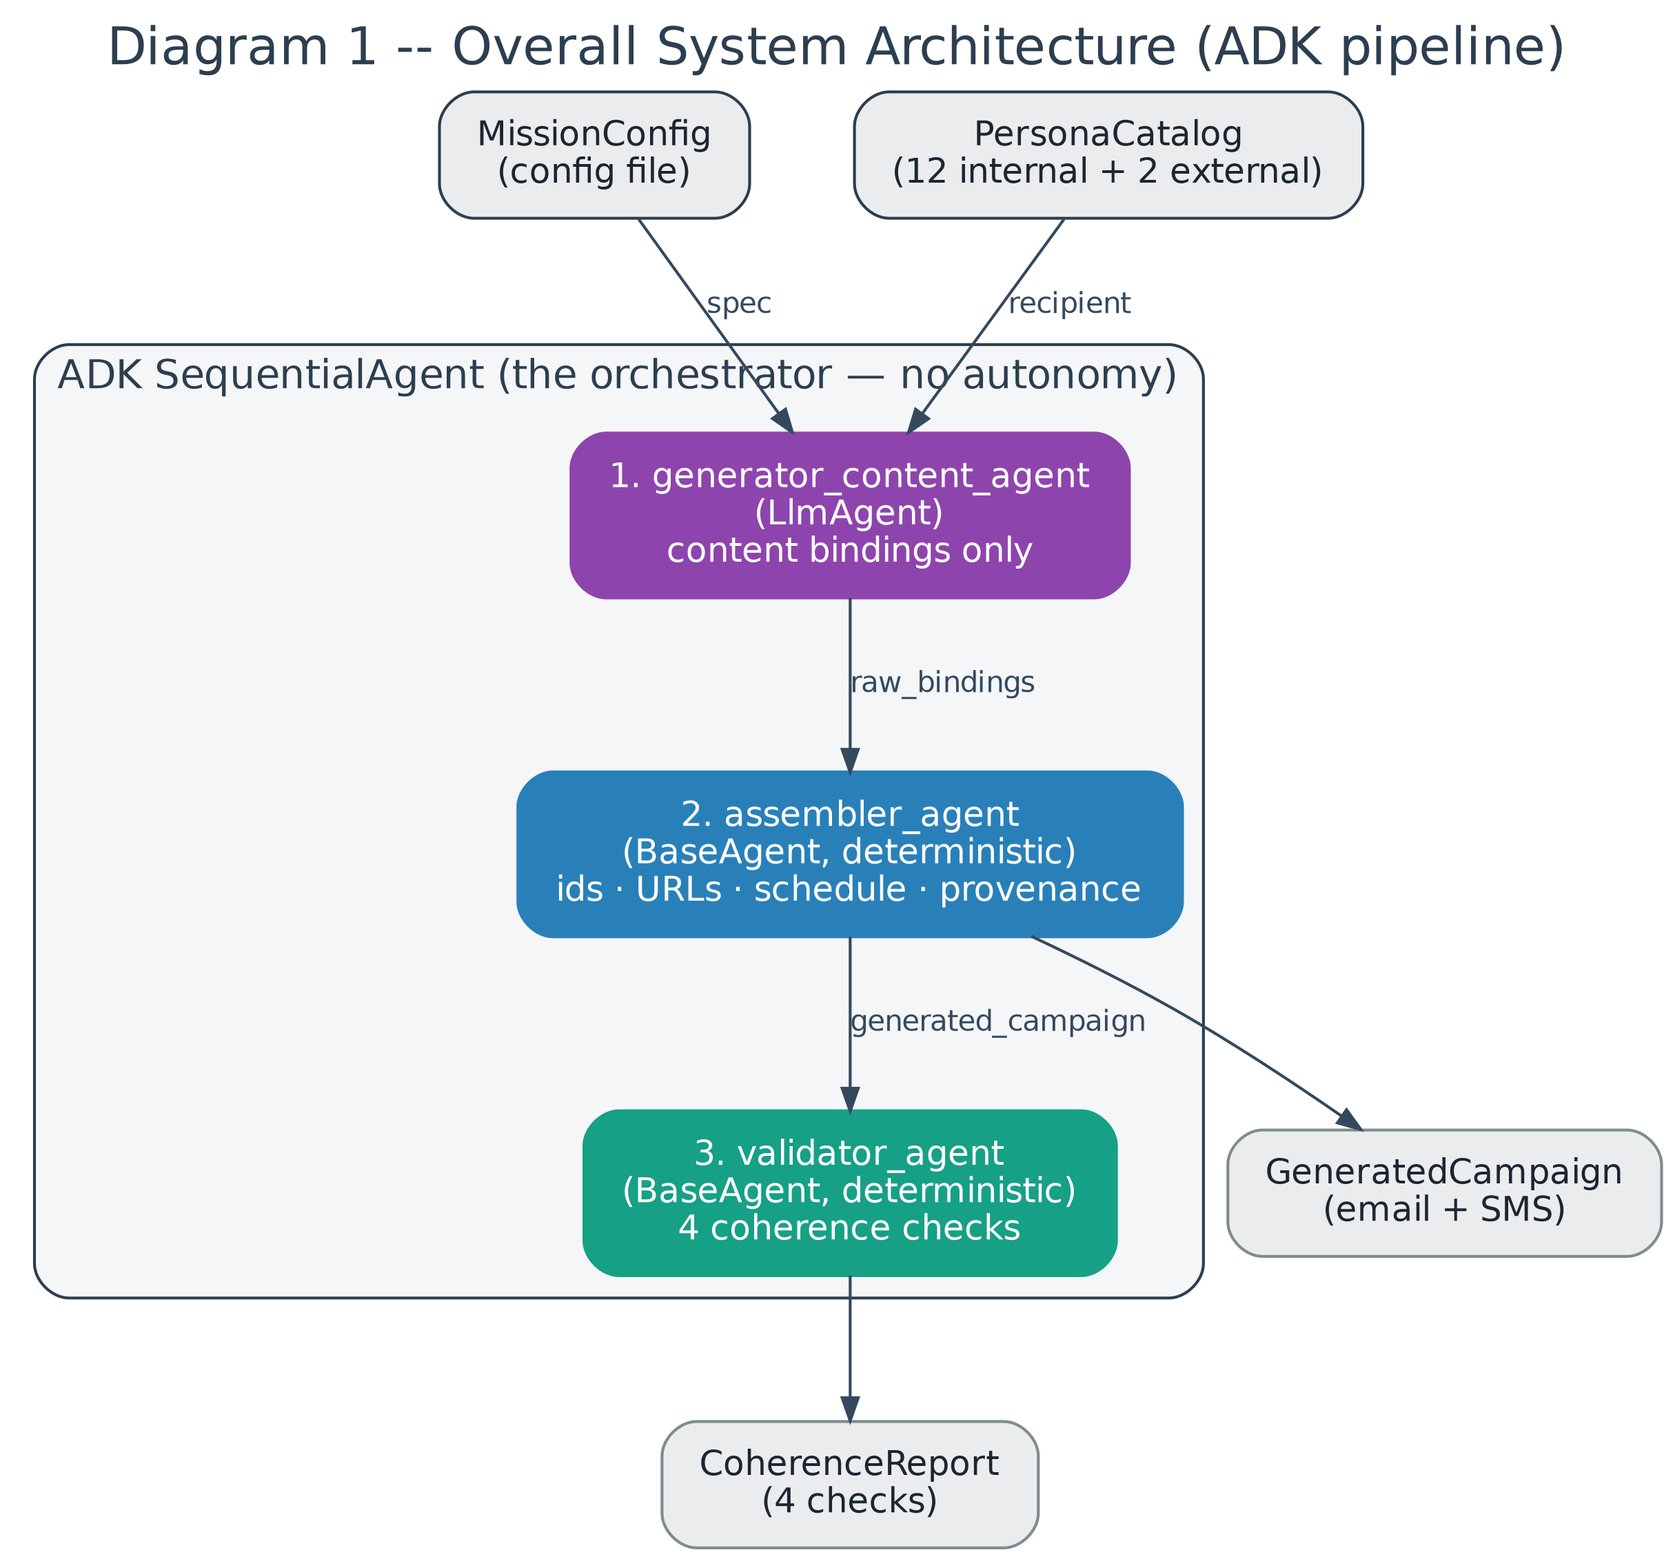
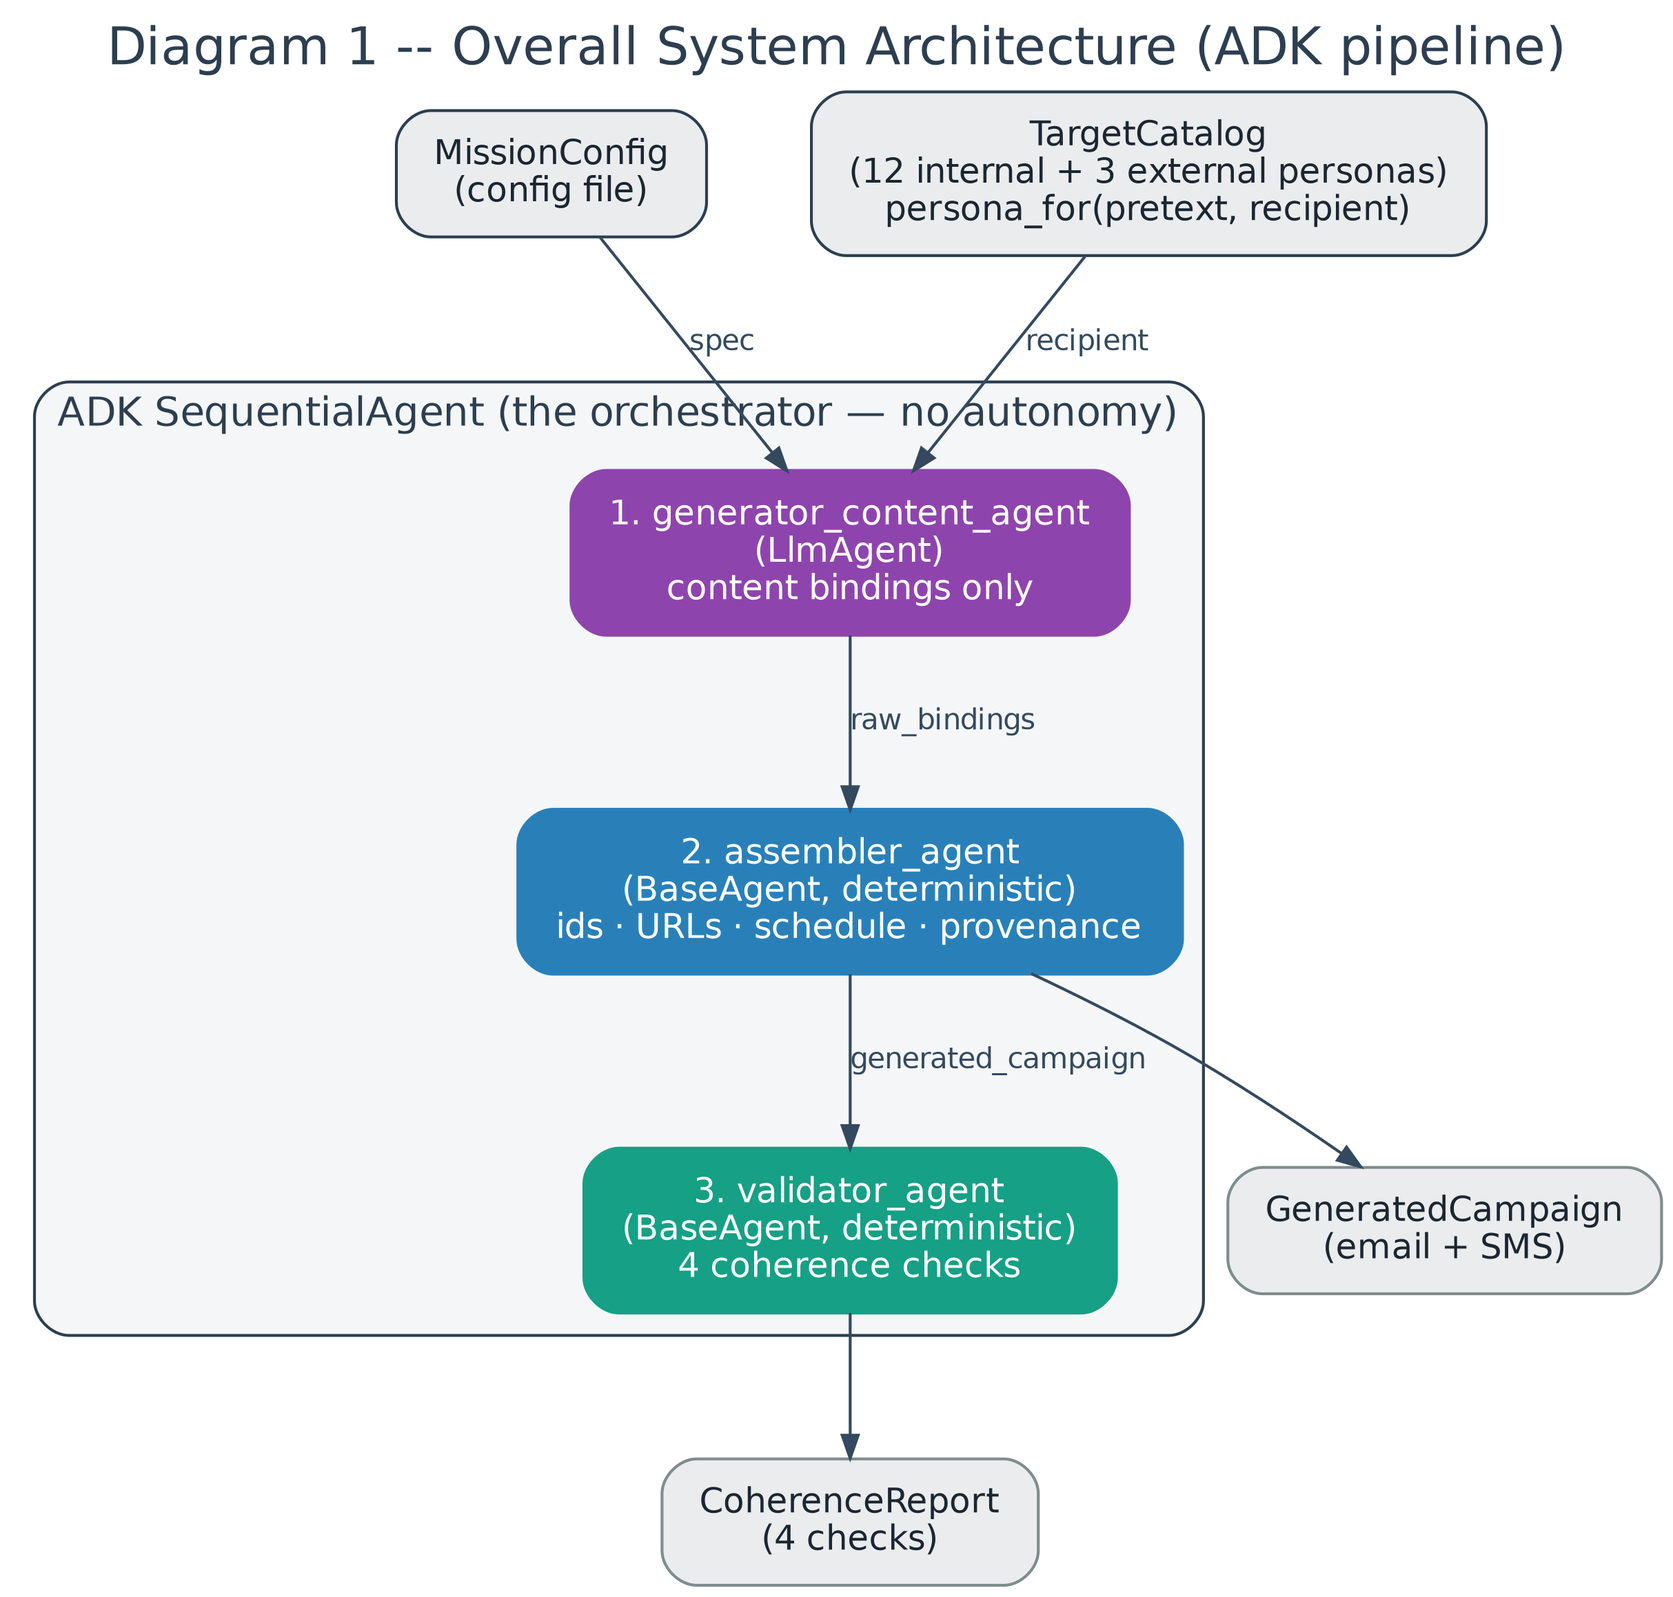
docs: sync persona-selection design across README, docs, and diagrams
Document the deterministic persona derivation, update the catalog counts
(12 internal + 3 external), and refresh the pipeline diagram.

diff --git a/scripts/generate_diagrams.py b/scripts/generate_diagrams.py
@@ -93,7 +93,7 @@ def diagram_1_system_architecture() -> str:
     dot.node("mission", "MissionConfig\n(config file)", shape="box",
              fillcolor="#EAECEE", color=PALETTE["orchestration"],
              fontcolor="#1B2631")
-    dot.node("catalog", "PersonaCatalog\n(12 internal + 2 external)", shape="box",
+    dot.node("catalog", "TargetCatalog\n(12 internal + 3 external personas)\npersona_for(pretext, recipient)", shape="box",
              fillcolor="#EAECEE", color=PALETTE["orchestration"],
              fontcolor="#1B2631")
 

diff --git a/README.md b/README.md
@@ -25,8 +25,9 @@
 - **Two channels** — email and SMS (voice is out of scope).
 - **Multi-model adapters** — generate through at least two model families so results are comparable and reproducible across families.
 - **Coherence validators** — a consistent impersonated persona, a coherent send timeline, existing cross-channel references, and link consistency (body links must match the CTA), all enforced in the schema and reported by a deterministic validator.
+- **Deterministic persona selection** — the impersonated identity is derived from the `(pretext, recipient)` pair (org chart for executive requests, service desk for IT pretexts, supplier/carrier/bank for BEC pretexts), so the LLM never invents the sender.
 - **Provenance log** — model, parameters, seed, and prompt hash recorded for every artifact.
-- **Synthetic-only data** — the persona catalog (12 internal + 2 external personas) is generated internally; no external OSINT tools or live collection.
+- **Synthetic-only data** — the target catalog (12 internal employees + 3 external personas) is generated internally; no external OSINT tools or live collection.
 - **Reproducibility & reliability measurement** — a harness that reruns the same spec with a fixed seed and counts constraint violations across a 10-spec baseline.
 - **Built-in authorization gate** — every campaign must be attested as authorized before generation runs.
 
@@ -97,10 +98,11 @@ uvicorn app.main:app --reload
 
 ---
 
-## Interactive shell (harness)
+## PhishCraft — interactive shell (harness)
 
-`python -m ptshell` opens a Claude-Code-style interactive REPL over the
-generator: a styled terminal UI (rich panels/tables, spinners, ✓/✗ badges),
+`python -m ptshell` opens **PhishCraft**, a Claude-Code-style interactive
+REPL over the generator: a purple-and-white styled terminal UI with an ASCII
+logo banner on startup, rich panels/tables, spinners, ✓/✗ badges,
 a colored prompt with the model inline, tab-completion with descriptions, and
 persistent command history. Configure everything in-session; settings persist
 to `~/.pt-shell/config.json` (override the location with the `PTSHELL_CONFIG`
@@ -117,7 +119,7 @@ python -m ptshell
 | `/help` | List commands. |
 | `/config [key [value]]` | View or set settings (e.g. `/config seed 7`, `/config pretext invoice_payment`); `/config reset` restores defaults. |
 | `/model <id>` · `/models` | Set or list the generation model (e.g. `deepseek/deepseek-chat`). Model switches apply to the next `/generate`. |
-| `/recipient <id>` · `/recipients` | Set the default recipient or list the persona catalog (12 internal + supplier/bank). |
+| `/recipient <id>` · `/recipients` | Set the default recipient or list the target catalog (12 internal + supplier/bank/carrier). |
 | `/generate` | Run the ADK pipeline once with the current settings; prints the campaign + the 4-check validator report and saves both under `data/shell/<campaign_id>/`. |
 | `/validate [campaign.json]` | Run the 4 coherence checks on a campaign file (defaults to the last generated one). |
 | `/measure [--runs=N]` | Run the 10-spec reliability suite and print the failure-rate table (writes `summary.md`). |
@@ -169,8 +171,8 @@ Every file's job, grouped by directory.
 
 | File | What it is / why it matters |
 |------|------------------------------|
-| `generator_agent/assemble.py` | Model-free, **deterministic** assembler: seed-derived tracking token, persona stamping, references, provenance, and the charter constant. Unit-tested with no API key. |
-| `generator_agent/catalog.py` | Loads the persona catalog (12 internal + external) and builds generator profiles from it. |
+| `generator_agent/assemble.py` | Model-free, **deterministic** assembler: seed-derived tracking token, persona stamping (from the deterministic selection), references, provenance, and the charter constant. Unit-tested with no API key. |
+| `generator_agent/catalog.py` | Loads the target catalog (12 internal + 3 external personas), builds generator profiles, and derives the impersonated persona per `(pretext, recipient)` via `persona_for`. |
 | `generator_agent/run.py` | CLI: loads a mission file, drives the ADK pipeline, writes campaign + report, optional `--send`. |
 | `generator_agent/send.py` | Delivers a campaign to the MailHog SMTP sink (email as email, SMS tagged `[SMS]`). |
 | `generator_agent/agent.py` | **Legacy reference**: the old LMQL query; superseded by the ADK content agent, kept for documentation only. |
@@ -200,7 +202,7 @@ Every file's job, grouped by directory.
 | File | What it is / why it matters |
 |------|------------------------------|
 | `org/fantazylabz_org.json` | The 12-person internal roster (BEC-relevant roles). |
-| `org/external_personas.json` | External BEC personas: a supplier and a bank (`.example` domains). |
+| `org/external_personas.json` | External BEC impersonation sources: a supplier, a bank, and a carrier (`.example` domains). |
 | `org/fantazylabz_org.md` | Human-readable roster by department. |
 | `org/fantazylabz_org_graph.md` | Org chart (Mermaid + text tree). |
 
@@ -223,7 +225,7 @@ Every file's job, grouped by directory.
 | `docs/models.md` | Candidate model catalog (fine-tuned + foundation baselines). |
 | `docs/README.md` | Docs index. |
 
-### `ptshell/` — the interactive harness (Claude-Code-style REPL)
+### `ptshell/` — PhishCraft, the interactive harness (Claude-Code-style REPL)
 
 | File | What it is / why it matters |
 |------|------------------------------|

diff --git a/docs/pt-shell-guide.md b/docs/pt-shell-guide.md
@@ -1,7 +1,7 @@
-# PT Shell — User Guide
+# PhishCraft — User Guide
 
-PT Shell is the **interactive harness** for the phishing-campaign generator:
-a Claude-Code-style terminal REPL where you configure settings in-session,
+**PhishCraft** is the **interactive harness** for the phishing-campaign
+generator: a Claude-Code-style terminal REPL where you configure settings in-session,
 generate synthetic email+SMS campaigns through the Google ADK pipeline, run
 the deterministic validator, and measure reproducibility & reliability.
 
@@ -40,14 +40,21 @@ python -m ptshell          # or: ./venv/bin/python -m ptshell
 You are greeted by the banner:
 
 ```
-╭─ welcome ───────────────────────────────────────────────╮
-│  PT SHELL  ·  interactive harness for the phishing-…    │
+ mmmmm  m    m mmmmm   mmmm  m    m   mmm  mmmmm    mm   mmmmmmmmmmmmm
+ #   "# #    #   #    #"   " #    # m"   " #   "#   ##   #        #
+ #mmm#" #mmmm#   #    "#mmm  #mmmm# #      #mmmm"  #  #  #mmmmm   #
+ #      #    #   #        "# #    # #      #   "m  #mm#  #        #
+ #      #    # mm#mm  "mmm#" #    #  "mmm" #    " #    # #        #
+           ><((((°>               ><((((°>
+       ~ ~ ~ ~ ~ ~ ~ ~ ~ ~ ~ ~ ~ ~ ~ ~ ~ ~ ~ ~ ~
+╭─ PhishCraft ────────────────────────────────────────────╮
+│  interactive harness for the phishing-campaign gener…   │
 │  settings  /home/you/.pt-shell/config.json              │
 │  model     deepseek/deepseek-chat  (adapter: adk)       │
 │  recipient first non-executive  ·  pretext: …  seed: 42 │
 │  type /help for commands · /quit to exit                │
 ╰─────────────────────────────────────────────────────────╯
-pt · deepseek/deepseek-chat · adk · seed 42 >
+phishcraft · deepseek/deepseek-chat · adk · seed 42 >
 ```
 
 - The prompt shows your current **model · adapter · seed**.
@@ -85,8 +92,8 @@ pt> /generate            # call the model, build + validate the campaign
 | `/config reset` | Restore every setting to its default. |
 | `/model <id>` | Switch model. Applies to the **next** `/generate`. |
 | `/models` | List known model ids. |
-| `/recipients` | Table of the persona catalog (12 internal + supplier/bank). |
-| `/recipient <id>` | Set the default target persona. |
+| `/recipients` | Table of the target catalog (12 internal + supplier/bank/carrier). |
+| `/recipient <id>` | Set the default simulation target. The impersonated persona is derived automatically from the pretext + target (e.g. `executive_request` → the target's manager). |
 | `/generate` | One ADK pipeline run: generate → assemble → validate. |
 | `/validate [file.json]` | Run the 4 coherence checks on a campaign file (defaults to the last generated campaign). |
 | `/measure [--runs=N]` | Run the 10-spec reliability suite; prints the failure-rate summary. |
@@ -127,7 +134,7 @@ Unknown keys and invalid values are rejected with the valid options listed.
 | `difficulty` | `medium` | `easy`, `medium`, `hard` |
 | `language` | `en` | BCP-47-ish locale, e.g. `en`, `es-MX` |
 | `seed` | `42` | integer ≥ 0; drives the deterministic tracking link |
-| `recipient_id` | *(empty)* | catalog persona id; empty = first non-executive |
+| `recipient_id` | *(empty)* | target catalog id (internal employee); empty = first non-executive. The impersonated persona is derived from this id + the pretext. |
 | `start_at` | `2026-08-20T09:00:00Z` | ISO-8601 UTC campaign start |
 | `followup_minutes` | `75` | SMS is scheduled this many minutes after the email |
 | `adapter` | `adk` | `adk` (real ADK pipeline, needs a key) or `stub` (offline, §7) |
@@ -210,6 +217,7 @@ ADK_MODEL=deepseek/deepseek-chat python -m generator_agent.run \
 | `no SMTP sink — start it with: docker compose up -d` | MailHog isn't running (see §9). |
 | `/config` says `'x' must be one of: …` | The value isn't in the valid set — the message lists the options. |
 | Settings look wrong after an edit | `cat ~/.pt-shell/config.json`; fix by hand or run `/config reset`. |
+| Startup warns `could not read … config.json` | The settings file is empty or corrupt. PhishCraft repairs it automatically: an empty file is refilled with defaults, a corrupt one is moved to `config.json.corrupt-<ts>` (nothing is lost) and defaults are used. |
 | Want a different settings file | `PTSHELL_CONFIG=/path/config.json python -m ptshell`. |
 | DeepSeek calls are slow / timing out | The adapter streams with a 120 s read timeout; retry or switch model with `/model gemini-2.5-flash`. |
 
@@ -217,7 +225,7 @@ ADK_MODEL=deepseek/deepseek-chat python -m generator_agent.run \
 
 | What | Where |
 |---|---|
-| Shell code | `ptshell/` (`shell.py` = commands + UI, `config.py` = settings) |
+| PhishCraft shell code | `ptshell/` (`shell.py` = commands + UI, `config.py` = settings) |
 | Settings / history | `~/.pt-shell/config.json` · `~/.pt-shell/history` |
 | Generated campaigns (shell) | `data/shell/<campaign_id>/` |
 | Reliability / reproducibility results | `data/measurements/…` |

diff --git a/docs/architecture.md b/docs/architecture.md
@@ -37,8 +37,8 @@ pipeline measurable for reproducibility.
 
 | Stage | Kind | Responsibility |
 |-------|------|----------------|
-| `generator_content_agent` | ADK `LlmAgent` | Emits the 8 content bindings (persona + email subject/body + SMS body) in the requested tone/difficulty/language. Writes nothing structural. |
-| `assembler_agent` | ADK `BaseAgent` (deterministic) | Builds the `GeneratedCampaign`: ids, persona stamping, seed-derived tracking URL, spec-derived schedule, references, and provenance are all decided in code. |
+| `generator_content_agent` | ADK `LlmAgent` | Emits the 8 content bindings (persona echo + email subject/body + SMS body) in the requested tone/difficulty/language. Writes nothing structural; the persona it echoes is ignored — the deterministic layer picks it. |
+| `assembler_agent` | ADK `BaseAgent` (deterministic) | Builds the `GeneratedCampaign`: ids, persona stamping (the identity derived from `pretext × recipient` via `catalog.persona_for`), seed-derived tracking URL, spec-derived schedule, references, and provenance are all decided in code. |
 | `validator_agent` | ADK `BaseAgent` (deterministic) | Runs the four coherence checks and emits the `CoherenceReport`. |
 
 ### Core building blocks
@@ -46,7 +46,11 @@ pipeline measurable for reproducibility.
 1. **Deterministic assembly.** `assemble_campaign` (`generator_agent/assemble.py`)
    contains no randomness: the tracking token is `sha256(campaign_id:seed)[:12]`,
    the clock and send schedule are injected by the caller, and persona/reference
-   wiring is structural. Fixed inputs ⇒ byte-identical output.
+   wiring is structural. The impersonated persona is chosen by
+   `catalog.persona_for(pretext, recipient_id)` — org-chart lookups for
+   executive requests, the internal service desk for IT pretexts, and the
+   external supplier/carrier/bank personas for BEC pretexts — so the LLM never
+   invents the sender. Fixed inputs ⇒ byte-identical output.
 2. **Coherence validators** (`validator_agent/validate.py`, no LLM):
    - **Persona identity** — the impersonated identity (e.g. the CEO) is the
      same across every message in the campaign.
@@ -71,14 +75,16 @@ pipeline measurable for reproducibility.
 - `MissionConfig` is loaded from a file (`config/q3-awareness-2026.mission.json`):
    authorized, synthetic-only, isolated, channels ⊆ {email, sms}, seed.
 - The `CampaignSpec` (pretext, tone, difficulty, recipient, start time) and the
-  `PersonaCatalog` (12 internal + 2 external personas) are seeded into ADK
-  session state before the run.
+  `PersonaCatalog` (12 internal employees + 3 external personas) are seeded
+  into ADK session state before the run.
 
 ### Phase 1 — Generation (`generator_content_agent` → `assembler_agent`)
-- The `LlmAgent` writes only content (persona + subject/body), answering in a
-  strict 8-line format.
+- The `LlmAgent` writes only content (persona echo + subject/body), answering
+  in a strict 8-line format; the persona in its echo is discarded in favour of
+  the deterministic selection derived from the recipient's profile.
 - The deterministic assembler parses the bindings and constructs the
-  `GeneratedCampaign` (email + SMS follow-up) with provenance.
+  `GeneratedCampaign` (email + SMS follow-up) with provenance, stamping the
+  selected persona into the campaign and every sender.
 
 ### Phase 2 — Verification (`validator_agent`)
 - The deterministic validator runs the four coherence checks and emits a

diff --git a/docs/README.md b/docs/README.md
@@ -10,7 +10,7 @@ Welcome to the documentation for **[Project Name]**, a configurable, reproducibl
 
 | Document | Description |
 |----------|-------------|
-| [PT Shell User Guide](./pt-shell-guide.md) | **How to use the tool**: install, launch, commands, settings, models, offline mode, measurement, troubleshooting. |
+| [PhishCraft User Guide](./pt-shell-guide.md) | **How to use the tool**: install, launch, commands, settings, models, offline mode, measurement, troubleshooting. |
 | [Architecture](./architecture.md) | Stage roles (ADK pipeline), phases, and the measurement loop. |
 | [Flow Schema](./flow-schema.md) | JSON data contracts for every hand-off across the pipeline. |
 | [Generator reliability plan](./generator-reliability-plan.md) | The design rationale behind the current build (workstreams W0–W5). |
@@ -26,8 +26,8 @@ The pipeline is a **Google ADK** agent graph — a linear, non-autonomous
 
 | Stage | Kind | Responsibility |
 |-------|------|----------------|
-| `generator_content_agent` | ADK `LlmAgent` | Writes content bindings (persona + email subject/body + SMS body) in the requested tone/difficulty/language. |
-| `assembler_agent` | ADK `BaseAgent` (deterministic) | Builds the `GeneratedCampaign`: ids, persona, seed-derived tracking link, schedule, references, provenance. |
+| `generator_content_agent` | ADK `LlmAgent` | Writes content bindings (persona echo + email subject/body + SMS body) in the requested tone/difficulty/language. |
+| `assembler_agent` | ADK `BaseAgent` (deterministic) | Builds the `GeneratedCampaign`: ids, persona (deterministically selected per pretext × recipient), seed-derived tracking link, schedule, references, provenance. |
 | `validator_agent` | ADK `BaseAgent` (deterministic) | Runs the four coherence checks (persona, timing, reference existence, link consistency) and emits the `CoherenceReport`. |
 
 See [architecture.md](./architecture.md) for the full pipeline, per-phase outputs,
@@ -49,7 +49,7 @@ Phase 3  Measurement (harness)      → reproducibility.json + reliability.json 
 ## Working with the docs
 
 - **Use the tool interactively:** `python -m ptshell` — see the
-  [PT Shell User Guide](./pt-shell-guide.md).
+  [PhishCraft User Guide](./pt-shell-guide.md).
 - **Architecture diagrams** are generated from code. Regenerate them after editing the pipeline:
 
   ```bash

diff --git a/docs/flow-schema.md b/docs/flow-schema.md
@@ -226,7 +226,10 @@ Batches of per-recipient generation requests with a send schedule.
 
 A coherent multi-channel bundle for one impersonated persona. The assembler
 decides every structural field (ids, persona, seed-derived URL, schedule,
-references, provenance); the LLM only wrote the `subject`/`body` text.
+references, provenance); the LLM only wrote the `subject`/`body` text. The
+persona itself is derived deterministically from the `(pretext, recipient)`
+pair by `generator_agent.catalog.persona_for` (e.g. `executive_request` →
+the recipient's manager, `invoice_payment` → the external supplier).
 
 ```json
 {
